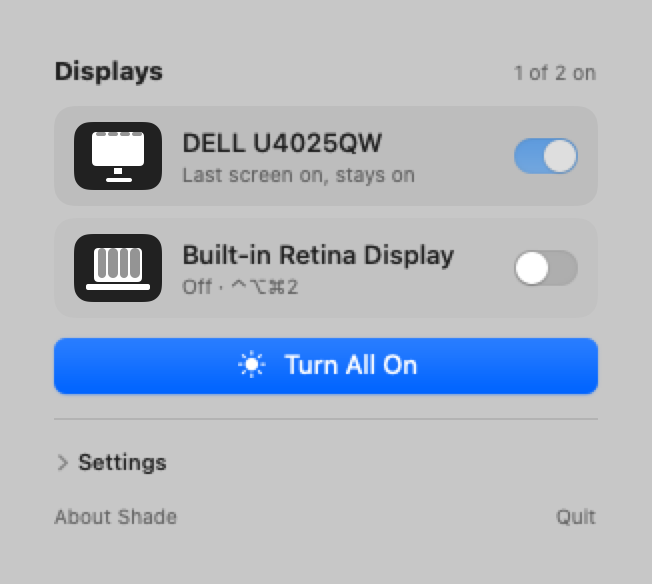
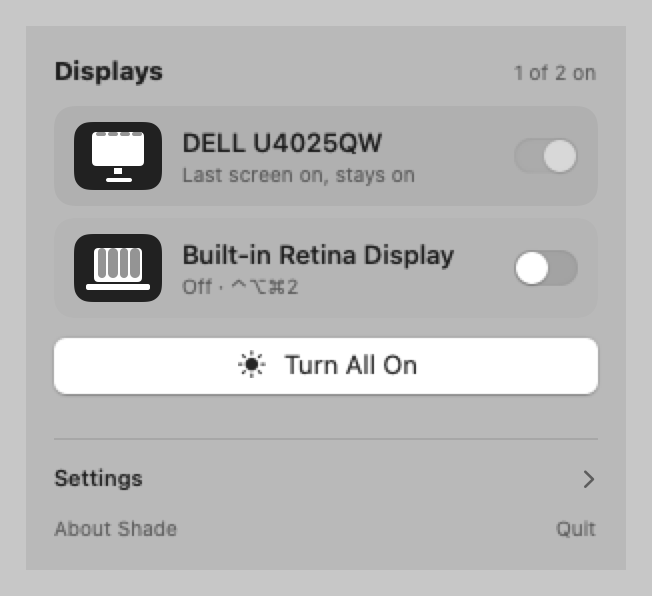
2.5: remove monitor volume (DDC) entirely; README and screenshots updated

diff --git a/UI.swift b/UI.swift
@@ -1,15 +1,13 @@
 import SwiftUI
 import ServiceManagement
 
-// MARK: - The menu bar panel: one card per display, Turn All On, volume, settings.
+// MARK: - The menu bar panel: one card per display, Turn All On, settings.
 
 let spring = Animation.spring(response: 0.2, dampingFraction: 0.9)
 
 final class PanelModel: ObservableObject {
     unowned let app: App
     @Published var list: [Display] = []
-    @Published var volume: Double = 0
-    @Published var volumeMax: Double = 100
     @Published var settingsOpen = false
     init(app: App) { self.app = app }
 
@@ -17,7 +15,6 @@ final class PanelModel: ObservableObject {
     func refresh() {
         let l = displays()
         if l != list { withAnimation(spring) { list = l } }
-        if let lv = app.volume.level, Double(lv.cur) != volume || Double(lv.max) != volumeMax { volume = Double(lv.cur); volumeMax = Double(lv.max) }
         objectWillChange.send()
     }
     var supported: Bool { app.supported }
@@ -94,8 +91,6 @@ struct PanelView: View {
             }
             .buttonStyle(.borderedProminent).controlSize(.large).keyboardShortcut(.defaultAction)
             .help("Every display back on. Also ⌃⌥⌘B, or Shade --rescue")
-
-            if m.app.volume.available && m.app.volume.enabled { VolumeRow(m: m) }
 
             Spacer(minLength: 0)
             Divider().padding(.top, 2)
@@ -193,26 +188,6 @@ struct Thumb: View {
     }
 }
 
-struct VolumeRow: View {
-    @ObservedObject var m: PanelModel
-    var body: some View {
-        let v = m.app.volume
-        HStack(spacing: 8) {
-            Image(systemName: m.volume == 0 ? "speaker.slash.fill" : "speaker.wave.2.fill").foregroundStyle(.secondary).frame(width: 18)
-            if v.status == .ok {
-                Slider(value: Binding(get: { m.volume }, set: { m.volume = $0; v.userSet(Int($0)) }), in: 0...max(m.volumeMax, 1))
-                    .controlSize(.small)
-                Text("\(Int(m.volume))").font(.caption.monospacedDigit()).foregroundStyle(.secondary).frame(width: 24, alignment: .trailing)
-            } else {
-                Text(v.status.message).font(.caption).foregroundStyle(.secondary).lineLimit(2)
-                Spacer(minLength: 0)
-            }
-        }
-        .frame(height: 22)
-        .help(v.status == .ok ? "Your monitor's own volume, over DDC. It controls the monitor's speakers and, on most monitors, its audio out." : v.status.message)
-    }
-}
-
 struct SettingsView: View {
     @ObservedObject var m: PanelModel
     var body: some View {
@@ -220,10 +195,6 @@ struct SettingsView: View {
             row("Launch at login", SMAppService.mainApp.status == .enabled) { m.app.toggleLogin() }
             row("Built-in off when an external connects", defaults.bool(forKey: "autoBuiltinOff")) { m.app.toggleAuto() }
                 .disabled(!m.supported)
-            if m.app.volume.available {
-                row("Monitor volume keys", m.app.volume.enabled) { m.app.volume.toggleEnabled() }
-                    .help("Control an external monitor's own volume over DDC. Volume keys need Accessibility permission.")
-            }
             row("Check for updates daily", defaults.bool(forKey: "checkUpdates")) { m.app.toggleUpdates() }
             HStack {
                 Text("Hotkeys")
@@ -252,7 +223,6 @@ final class Panel: NSObject {
         let host = NSHostingController(rootView: PanelView(m: model))
         host.sizingOptions = .preferredContentSize
         popover.contentViewController = host
-        app.volume.onChange = { [weak model] in model?.refresh() }   // DDC answers arrive later, off the main thread
         // .transient closes the panel whenever the screens reconfigure. We close it ourselves on an outside click or Esc.
         popover.behavior = .applicationDefined
         popover.animates = true
@@ -269,7 +239,6 @@ final class Panel: NSObject {
     func show(_ b: NSStatusBarButton?, animated: Bool) {
         guard let b, b.window != nil else { return }
         wantOpen = true
-        model.app.volume.ensureTap(); model.app.volume.refresh()   // DDC is read off the main thread
         NSApp.activate(ignoringOtherApps: true)
         if let v = popover.contentViewController?.view { v.layoutSubtreeIfNeeded(); popover.contentSize = v.fittingSize }
         popover.animates = animated

diff --git a/main.swift b/main.swift
@@ -167,7 +167,6 @@ let cliUsage = """
       toggle <n|uuid> switch a display
       others          same as ⌃⌥⌘B
       all-on          turn every display on
-      volume [0-100]  read or set an external monitor's volume over DDC
       --rescue        turn every display on (same as all-on)
     """
 
@@ -189,7 +188,6 @@ func runCLI(_ args: [String]) -> Int32 {
         for (i, d) in ds.enumerated() { print("\(i + 1)  \(d.on ? "on " : "off")  \(d.name)\(d.id == CGMainDisplayID() ? " (main)" : "")  \(d.uuid)") }
         return 0
     case "others": toggleOthers(); return 0
-    case "volume": return runVolumeCLI(args.dropFirst().first)
     case "on", "off", "toggle":
         guard let d = find(args.dropFirst().first) else { fputs("Shade: no such display. Run `Shade list`.\n", stderr); return 2 }
         switch turn(d, on: cmd == "on" || (cmd == "toggle" && !d.on)) {
@@ -213,7 +211,6 @@ final class App: NSObject, NSApplicationDelegate {
     lazy var panel = Panel(app: self)
     var signalSources: [DispatchSourceSignal] = []
     var supported: Bool { configureEnabled != nil }
-    let volume = VolumeController()
 
     func applicationDidFinishLaunching(_ n: Notification) {
         blog.notice("Shade \(appVersion, privacy: .public) launched, display API \(configureEnabled == nil ? "missing" : "found", privacy: .public)")
@@ -237,7 +234,6 @@ final class App: NSObject, NSApplicationDelegate {
         checkForUpdate()
         if defaults.object(forKey: "loginSet") == nil { try? SMAppService.mainApp.register(); defaults.set(true, forKey: "loginSet") }
         applyAutoMode(force: true)
-        volume.start()
     }
     var settle: DispatchWorkItem?
 
@@ -255,7 +251,6 @@ final class App: NSObject, NSApplicationDelegate {
     func displaysChanged() {
         if activeIDs().isEmpty { blog.error("no active display after reconfiguration"); restoreAll() }
         applyAutoMode()
-        volume.refresh()
         updateIcon()
         panel.model.refresh()
         panel.endReconfigure()

diff --git a/docs/hero.html b/docs/hero.html
@@ -44,10 +44,8 @@ body{width:400px;height:410px;overflow:hidden;font:13px/1.3 -apple-system,"SF Pr
  <div class="card"><div class="tile lap"><div class="scr"><div class="cur" id="c1"><i></i><i></i><i></i><i></i></div></div><div class="base"></div></div>
   <div class="t"><div class="n">Built-in Retina Display</div><div class="sub" id="s1">On · ⌃⌥⌘2</div></div><div class="sw" id="w1"><div class="k"></div></div></div>
  <div class="btn" id="btn"><svg width="15" height="15" viewBox="0 0 24 24" fill="#fff"><circle cx="12" cy="12" r="4.5"/><g stroke="#fff" stroke-width="2.2" stroke-linecap="round"><path d="M12 2v2.5M12 19.5V22M2 12h2.5M19.5 12H22M4.9 4.9l1.8 1.8M17.3 17.3l1.8 1.8M4.9 19.1l1.8-1.8M17.3 6.7l1.8-1.8"/></g></svg>Turn All On</div>
- <div class="vol"><svg width="16" height="14" viewBox="0 0 24 20" fill="rgba(235,235,245,.6)"><path d="M2 7h4l6-5v16l-6-5H2z"/><path d="M15 6.5a5 5 0 0 1 0 7M18 3.5a9 9 0 0 1 0 13" stroke="rgba(235,235,245,.6)" stroke-width="2" fill="none" stroke-linecap="round"/></svg>
-  <div class="trk"><div class="fill" style="width:50%"></div><div class="th" style="left:50%"></div></div><span style="width:20px;text-align:right">50</span></div>
  <div class="hr"></div>
- <div class="ft"><span>› Settings</span></div>
+ <div class="ft"><span>Settings</span><span>›</span></div>
  <div class="ft" style="margin-top:10px"><span style="font-weight:400;font-size:11px;color:rgba(235,235,245,.55)">About Shade</span><span>Quit</span></div>
 </div>
 <svg id="cursor" viewBox="0 0 22 30"><path d="M2 1.5v22.5l5.6-5.3 3.7 8.7 3.6-1.5-3.7-8.6H19z" fill="#000" stroke="#fff" stroke-width="1.6" stroke-linejoin="round"/></svg>

diff --git a/README.md b/README.md
@@ -8,7 +8,7 @@ Shade is a free, open-source macOS menu bar app that switches individual display
 
 <p align="center"><img src="docs/demo.gif" width="400" alt="Shade's menu bar panel: the built-in display's switch is turned off and its tile's curtain drops, then Turn All On brings it back"></p>
 
-Click the menu bar icon for a small panel: one card per display with its own switch, a big Turn All On button, your monitor's volume, and settings tucked underneath. It follows light and dark mode.
+Click the menu bar icon for a small panel: one card per display with its own switch, a big Turn All On button, and a Settings page one click away. It follows light and dark mode.
 
 <p align="center"><img src="docs/panel-light.png" width="300" alt="Shade panel in light mode, with the built-in display off"> &nbsp; <img src="docs/panel-dark.png" width="300" alt="Shade panel in dark mode, settings open"></p>
 
@@ -21,7 +21,6 @@ Click the menu bar icon for a small panel: one card per display with its own swi
 - **Per-display hotkeys:** `Ctrl` + `Option` + `Cmd` + `1` to `9` switch display 1 to 9, in the order the panel lists them.
 - **Auto mode (optional):** Built-in Off When External Connects turns the MacBook screen off when you plug in a monitor. Unplug the monitor and the built-in screen comes back on.
 - **Command line and Shortcuts:** `Shade list`, `Shade off 2`, `Shade on 2` and more. See [Command line](#command-line).
-- **Monitor volume (optional):** volume keys, and knobs that send them, change your external monitor's own volume over DDC. There's also a slider in the panel. See [Monitor volume](#monitor-volume).
 - **Launch at login** (uses `SMAppService`).
 - **Back on at wake.** All displays are turned on again when your Mac wakes from sleep.
 - **Can't lock you out.** Shade won't turn off your last active display. Its switch is greyed out and the card says "Last screen on, stays on".
@@ -87,27 +86,9 @@ $S on 2
 $S toggle 2
 $S others        # same as Ctrl-Option-Cmd-B
 $S all-on        # same as --rescue
-$S volume        # read the external monitor's volume, e.g. 50/100
-$S volume 30     # set it
 ```
 
 You can pass a display's UUID instead of its number. To use Shade from **Shortcuts** or a Stream Deck, add a Run Shell Script action with one of these commands.
-
-## Monitor volume
-
-macOS can't change the volume of sound sent to a monitor over DisplayPort or HDMI, so the volume keys do nothing. Shade can ask the monitor to change its own volume instead, over DDC/CI.
-
-1. In the Shade panel, open **Settings** and turn on **Monitor volume keys**.
-2. When macOS asks, give Shade Accessibility permission in System Settings > Privacy & Security > Accessibility. Shade needs it to catch the volume keys.
-3. The volume up, down and mute keys now change the monitor's volume, but only while your sound output is a DisplayPort or HDMI monitor. Speakers and headphones work as before.
-
-Notes:
-
-- This works on Apple silicon Macs only. It uses Apple's private `IOAVService` calls, the same way [MonitorControl](https://github.com/MonitorControl/MonitorControl) does.
-- Your monitor needs DDC/CI turned on in its own menu, and some monitors don't support volume over DDC at all.
-- With more than one external monitor, Shade controls the first one it finds.
-- Because Shade is ad-hoc signed, macOS may ask for Accessibility permission again after each update.
-- macOS doesn't show its volume overlay for these changes. The panel's slider shows the level.
 
 ## Safety
 
